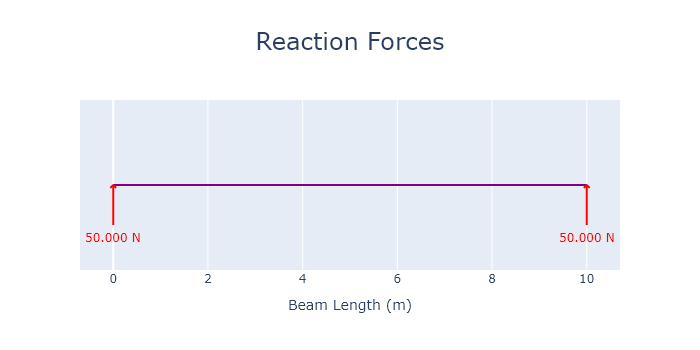
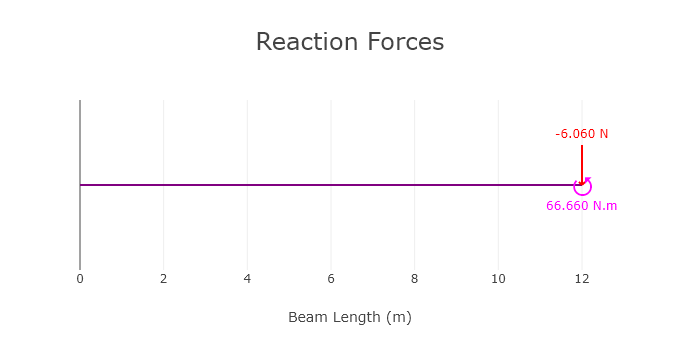
adding calc

diff --git a/pages/0_Beam_Calculator.py b/pages/0_Beam_Calculator.py
@@ -3,10 +3,8 @@ import numpy as np
 import streamlit as st
 from streamlit.hello.utils import show_code
 from streamlit_option_menu import option_menu 
-import matplotlib.pyplot as plt
-import matplotlib.animation as animation
+from indeterminatebeam import *
 import pandas as pd
-# from beam import create_beam, add_load, add_sp, plot_diagram
 
 # Kiểm tra nếu 'console_forces' không tồn tại trong session state thì khởi tạo
 if 'console_forces' not in st.session_state:
@@ -26,7 +24,6 @@ if 'type_support' not in st.session_state:
 if 'solve_clicked' not in st.session_state:
     st.session_state.solve_clicked = False
 
-
 st.set_page_config(page_title="Beam Calculator", page_icon="🙃", layout="wide")
 st.markdown("# Beam Calculator")
 st.sidebar.header("Beam Calculator Tool")
@@ -44,7 +41,6 @@ with tab1:
 
 # Tab nhập liệu
 added_forces=[]
-added_support=[]
 with tab2:
     # Tab nhập liệu
     select = st.selectbox('Beam type', ('Console', 'Beam with 2 supports','Advanced beam'))
@@ -58,10 +54,6 @@ with tab2:
             st.markdown('---')
             
             fixed_type = st.selectbox('Fixed position', ('Fixed left end', 'Fixed right end'))
-            #Thêm ngàm trái hoặc phải
-            # if fixed_type == "Fixed left end":
-            #     add_sp(0, "fixed")
-            # else: add_sp(length, "fixed")
             
         with col2:
             type_load = st.selectbox('Type forces', ('Point load', 'Distributed load', 'Moment')) 
@@ -90,18 +82,92 @@ with tab2:
                     (f", End Position: {force['End Position']} (m)" if 'End Position' in force else ""))
                 if delete_checkbox:
                     st.session_state.console_forces.pop(idx - 1)
-            st.button('Quick solve')
+                    
+            #Button để tạo beam, add sp và lực, hiển thị đề bài        
+            if st.button('Quick solve'):
+                
+                #Tạo beam với độ dài length
+                beam = Beam(length)
+                
+                if fixed_type == "Fixed left end":
+                    beam.add_supports(Support(0, (1,1,1)))
+                else: beam.add_supports(Support(length, (1,1,1)))
+                
+                for force in st.session_state.console_forces:
+                    # Trích xuất thông tin từ mỗi phần tử
+                    type_load = force.get("Type Load")
+                    magnitude = force.get("Magnitude")
+                    position = force.get("Position", None)
+                    start_position = force.get("Start Position", None)
+                    end_position = force.get("End Position", None)
+
+                    # Gọi hàm add_load với thông tin từng load
+                    if type_load == "Distributed load":
+                        beam.add_loads(DistributedLoadV(round(magnitude,2), (float(start_position), float(end_position))))
+                    elif type_load == "Moment":
+                        beam.add_loads(PointTorque(round(magnitude,2), position))
+                    elif type_load == "Point load":
+                        beam.add_loads(PointLoadV(round(magnitude,2), position))
+
+                beam.analyse()
+                #Vẽ biểu đồ dựa trên thông tin đã input
+                fig_beam = beam.plot_beam_diagram()
+                fig_beam.write_image("./images/fig_beam_console.png",format='png',engine='kaleido')
+      
       
         st.markdown('---')
-        keo, bua, bao = st.columns([1,3,1])
+        keo, bua, bao = st.columns([1,2,1])
         with bua:
-          st.image('images/console.jpg', caption='Console')  
+          st.image('images/fig_beam_console.png', caption='Console beam')  
         
         st.markdown('---')
         if st.button('Solve'):
             st.session_state.solve_clicked = True
+            
+            #Tạo beam với độ dài length
+            beam = Beam(length)
+            
+            if fixed_type == "Fixed left end":
+                beam.add_supports(Support(0, (1,1,1)))
+            else: beam.add_supports(Support(length, (1,1,1)))
+            
+            for force in st.session_state.console_forces:
+                # Trích xuất thông tin từ mỗi phần tử
+                type_load = force.get("Type Load")
+                magnitude = force.get("Magnitude")
+                position = force.get("Position", None)
+                start_position = force.get("Start Position", None)
+                end_position = force.get("End Position", None)
+
+                # Gọi hàm add_load với thông tin từng load
+                if type_load == "Distributed load":
+                    beam.add_loads(DistributedLoadV(round(magnitude,2), (float(start_position), float(end_position))))
+                elif type_load == "Moment":
+                    beam.add_loads(PointTorque(round(magnitude,2), position))
+                elif type_load == "Point load":
+                    beam.add_loads(PointLoadV(round(magnitude,2), position))
+                    
+            beam.analyse()
             #Giải và plot đồ thị
-            # plot_diagram(1)
+            #PLot beam schematic
+            fig_reac = beam.plot_reaction_force()
+            fig_reac.write_image("./images/fig_reac.png",format='png',engine='kaleido')
+
+            #PLot normal force
+            fig_normal = beam.plot_normal_force()
+            fig_normal.write_image("./images/fig_normal.png",format='png',engine='kaleido')
+
+            #PLot shear force
+            fig_shear = beam.plot_shear_force()
+            fig_shear.write_image("./images/fig_shear.png",format='png',engine='kaleido')
+
+            #PLot bending moment
+            fig_moment = beam.plot_bending_moment()
+            fig_moment.write_image("./images/fig_moment.png",format='png',engine='kaleido')
+
+            #Plot deflection
+            fig_deflection = beam.plot_deflection()
+            fig_deflection.write_image("./images/fig_deflection.png",format='png',engine='kaleido')
             
     # Beam with 2 supports
     elif select == 'Beam with 2 supports':
@@ -162,32 +228,39 @@ with tab2:
         with col2_1:
             length_2 = st.number_input(label='Length (m)', min_value=1.00, max_value=None, step=0.01)
             st.markdown('---')
-            type_support = st.selectbox('Type support', ('Fixed', 'Roller', 'Pin'))
-            st.markdown('---')
-            if type_support in ['Roller', 'Pin']:
-                roller = st.slider('Roller', min_value=0.00, max_value=length_2, step=0.01)
-                pin = st.slider('Pin', min_value=0.00, max_value=length_2, step=0.01)
-                if st.button('Add type support'):
-                    st.session_state.type_support.append({'Type support': type_support, 'Roller': roller, 'Pin': pin})
-            elif type_support == 'Fixed':
-                fixed_left_end = st.checkbox('Fixed left end')
-                fixed_right_end = st.checkbox('Fixed right end')
-                if st.button('Add type support'):
-                    st.session_state.type_support.append({'Type support': type_support, 'Fixed left end': fixed_left_end, 'Fixed right end': fixed_right_end})
+            data_df = pd.DataFrame(
+                {
+                    "category": [
+                        "Pin",
+                        "Roller",
+                        "Fixed",
+                    ],
+                }
+            )
+
+            st.data_editor(
+                data_df,
+                column_config={
+                    "category": st.column_config.SelectboxColumn(
+                        "Support type",
+                        help="The category of the app",
+                        width="medium",
+                        options=[
+                            "Pin",
+                            "Roller",
+                            "Fixed"
+                        ],
+                        required=True,
+                    )
+                },
+                hide_index=True,
+                num_rows="dynamic",
+            )
+            
         with col2_2:
-            st.write('Added type support:')
-            for idx, support in enumerate(st.session_state.type_support, start=1):
-                delete_checkbox = st.checkbox(f"Delete {support['Type support']} {idx}")
-                st.write(
-                    f"{idx}. Type support is {support['Type support']} " +
-                    (f", Roller: {support['Roller']} (m)" if 'Roller' in support else "") +
-                    (f", Pin: {support['Pin']} (m)" if 'Pin' in support else "") +
-                    (f", Fixed left end: {support['Fixed left end']}" if 'Fixed left end' in support else "") +
-                    (f", Fixed right end: {support['Fixed right end']}" if 'Fixed right end' in support else "")
-                )
-        
-                if delete_checkbox:
-                    st.session_state.type_support.pop(idx - 1)
+            support_1_position = st.slider('Position of support 1', 0.00, length_2,None)
+            support_2_position = st.slider('Position of support 2', 0.00, length_2,None)
+            support_3_position = st.slider('Position of support 3', 0.00, length_2,None)
         with col2_3:
             type_load_2 = st.selectbox('Type forces', ('Point load', 'Distributed load', 'Moment'))
             st.markdown('---')
@@ -199,10 +272,10 @@ with tab2:
             
             elif type_load_2 == 'Distributed load':
                 magnitude_2 = st.number_input('Magnitude (kN)', min_value=0.00, step=0.01)
-                start_point_2 = st.slider('Start position (m)', min_value=0.00, max_value=length_2, step=0.01)
+                start_point_2 = st.slider('Start position (m)', min_value=0.00, max_value=None, step=0.01)
                 end_point_2 = st.slider('End position (m)', min_value=0.00, max_value=length_2, step=0.01)
                 if st.button('Add'):
-                    st.session_state.advanced_forces.append({'Type Load': type_load_2, 'Magnitude': magnitude_2, 'Start Position': start_point_2, 'End Position': end_point_2})
+                    st.session_state.advanced_forces.append({'Type Load': type_load_2, 'Magnitude': magnitude_2, 'Start Position': start_point_2, 'End Position': end_point_1})
             
         with col2_4:
             st.write('Added forces:')

diff --git a/beam.py b/beam.py
@@ -61,12 +61,12 @@ def plot_diagram(x=0):
         fig_deflection = beam.plot_deflection()
         fig_deflection.write_image("./images/fig_deflection.png",format='png',engine='kaleido')
 
-beam = create_beam(10)
+# beam = create_beam(10)
 # add_sp(0, "fixed")
-add_sp(0, "pin")
-add_sp(10, "roller")
+# add_sp(0, "pin")
+# add_sp(10, "roller")
 # add_load(2, -10, "pload")
-add_load(0, -10, "dlv", 10)
+# add_load(0, -10, "dlv", 10)
 # add_load(5, 20, "ptorque")
-plot_diagram(0)
-plot_diagram(1)
+# plot_diagram(0)
+# plot_diagram(1)
